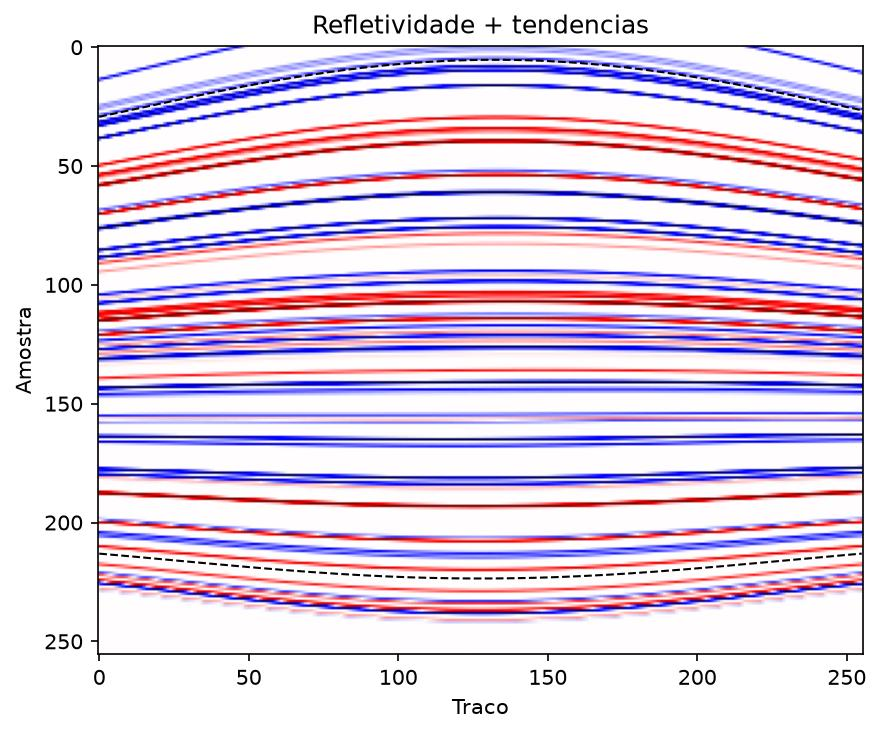
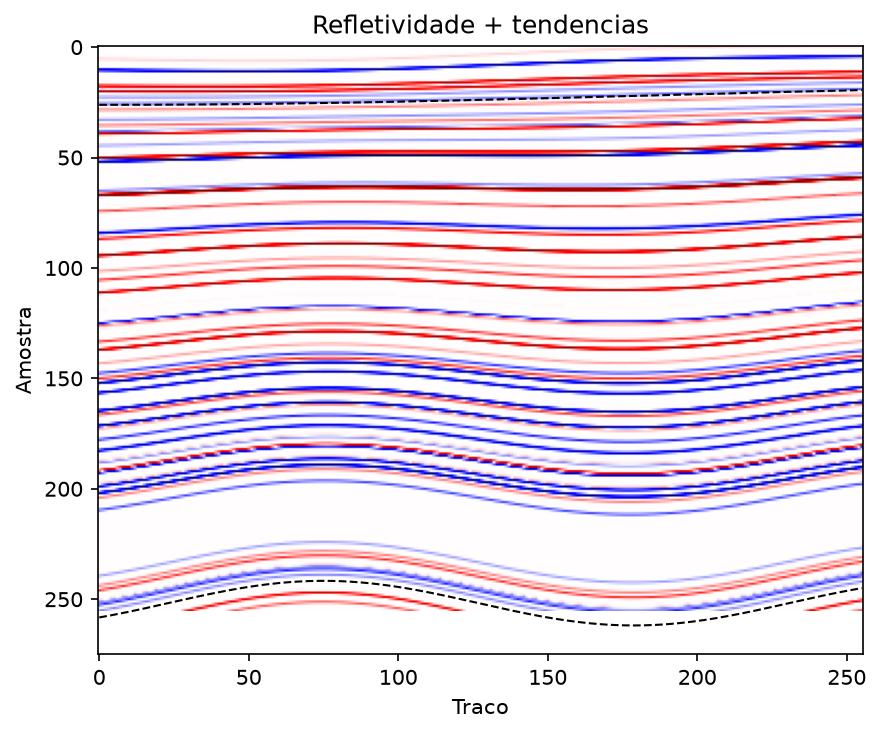
update reflector position limits in refletividade_2d.py

diff --git a/processamento/refletividade_2d.py b/processamento/refletividade_2d.py
@@ -9,8 +9,8 @@ dt=0.006    # taxa amostragem
 # limites relativos (%) do topo e base para posicao dos refletores
 # t1 e t2: quanto menores, mais perto do topo do gri
 # b1 e b2: quanto maiores, mais perto da base do  grid
-t1, t2 = 0.01, 0.3
-b1, b2 = 0.7, 0.9
+t1, t2 = 0.01, 0.1
+b1, b2 = 0.9, 0.99
 
 # gerador de numeros aleatorios
 rng = np.random.default_rng()
